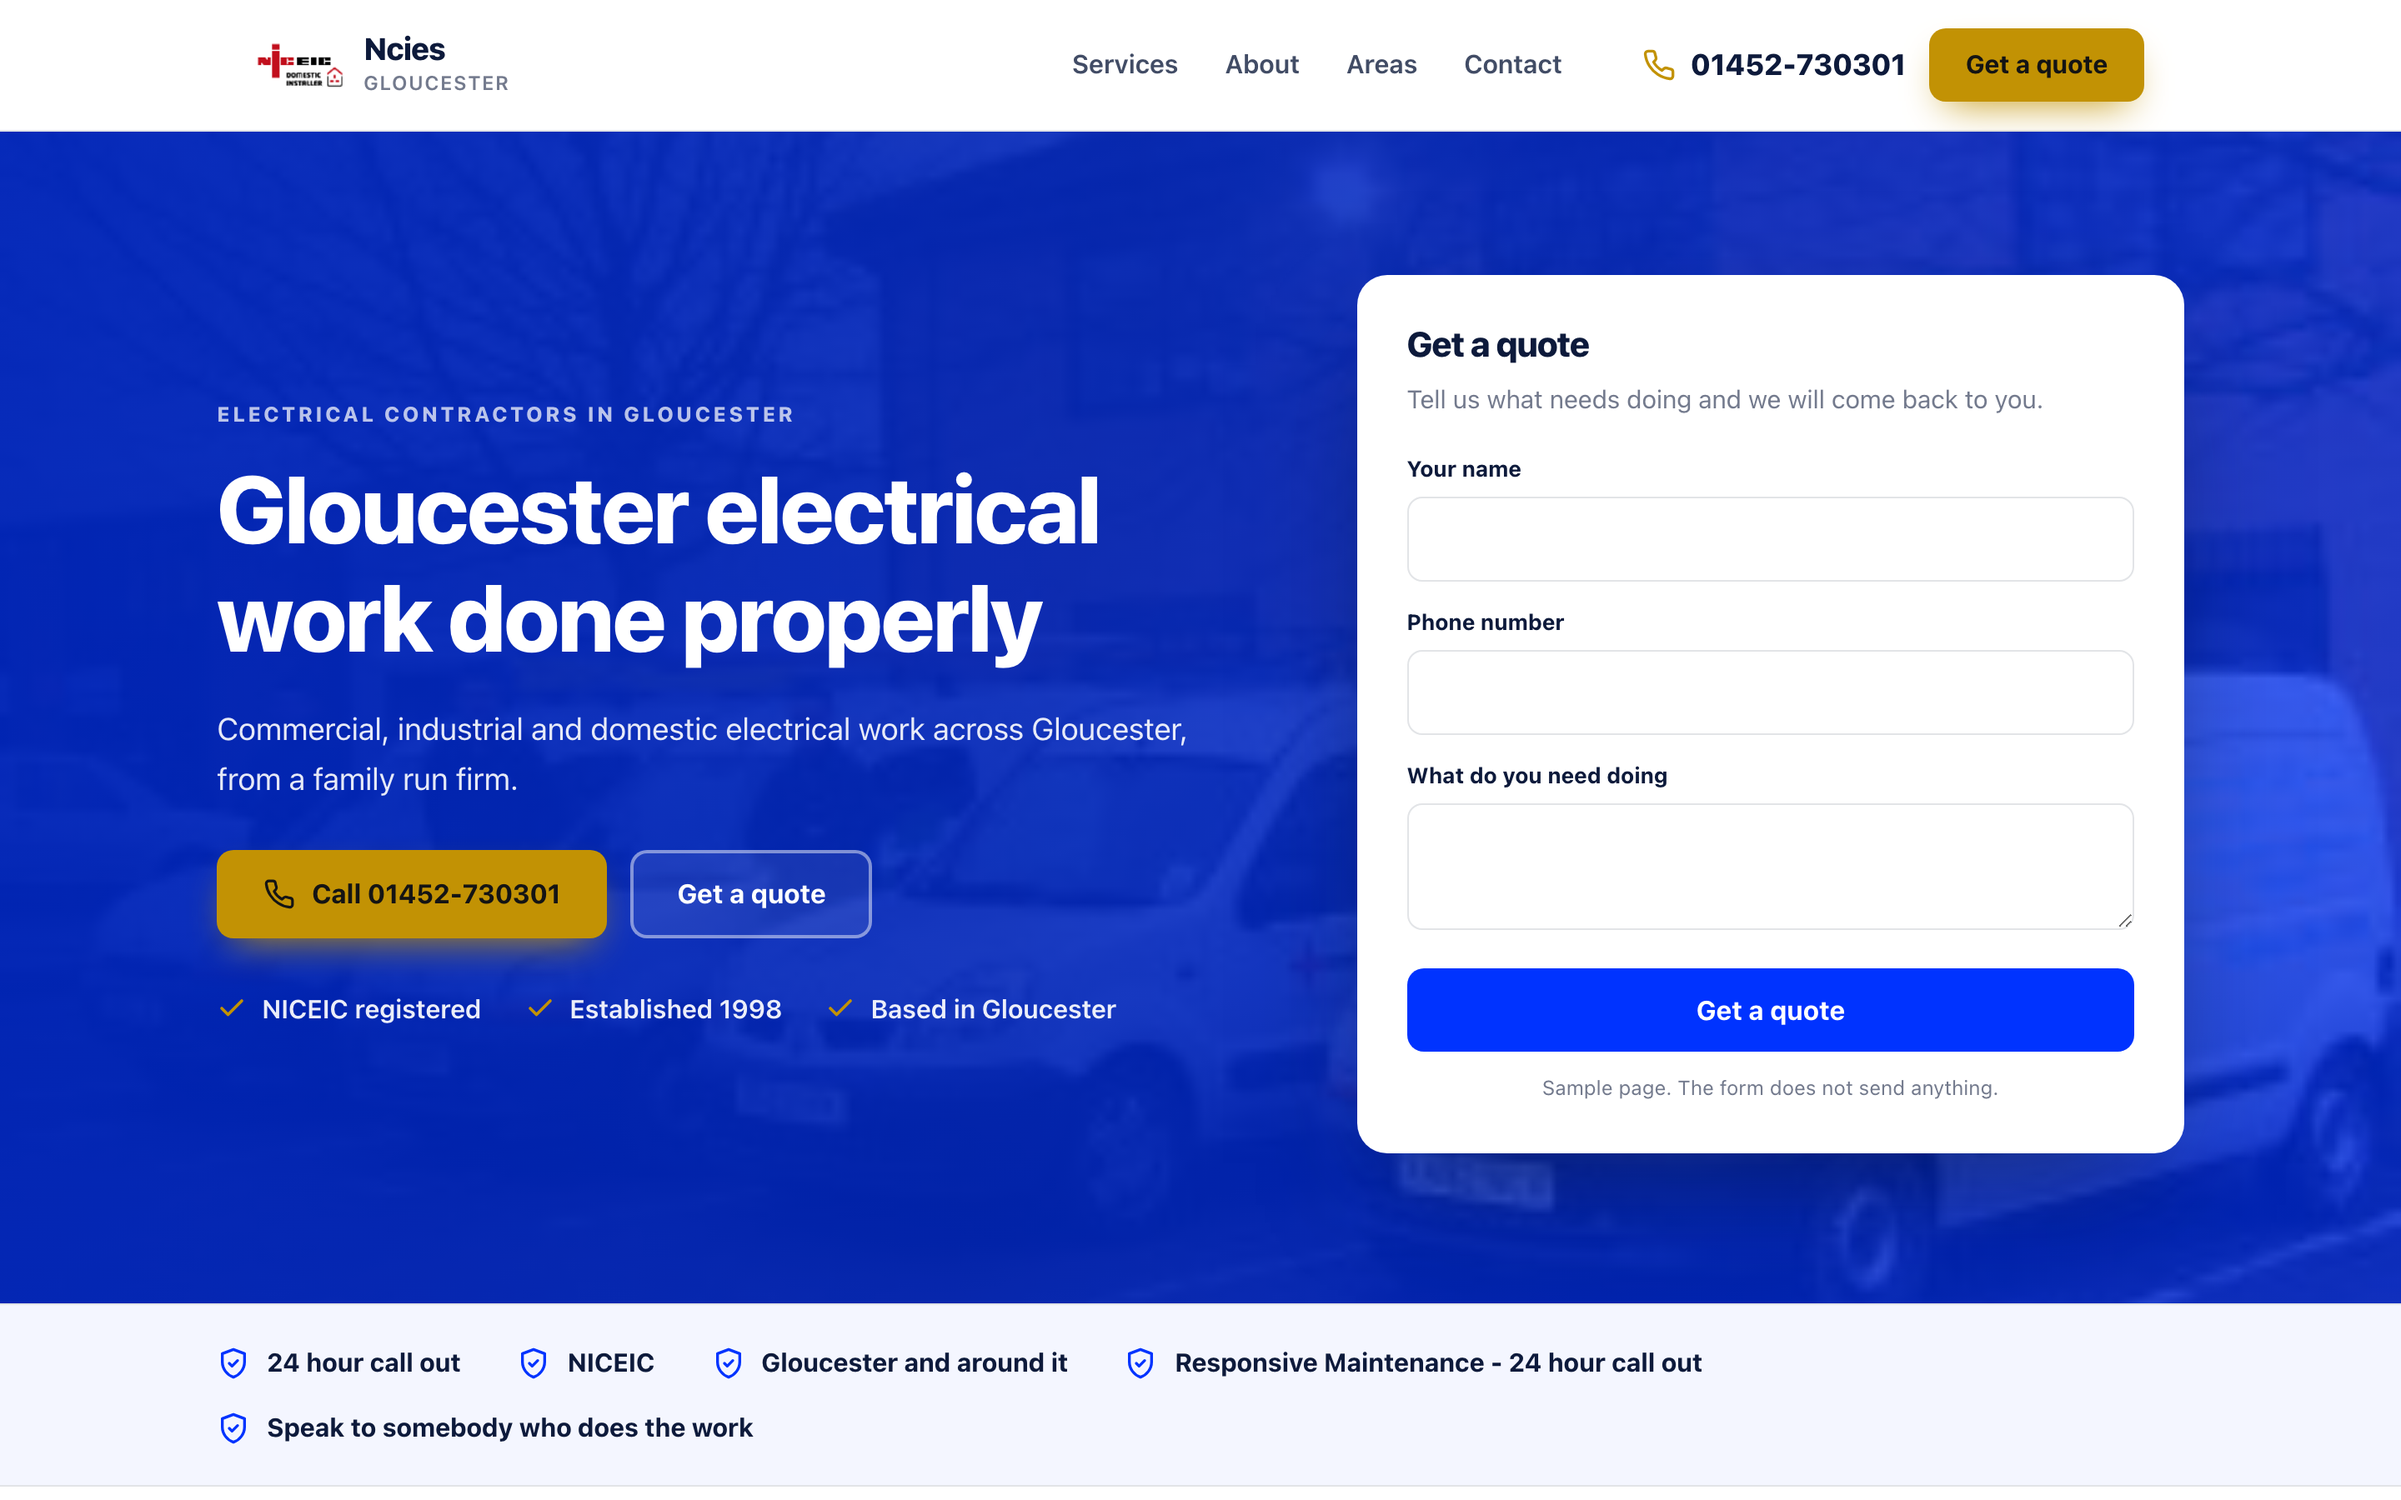
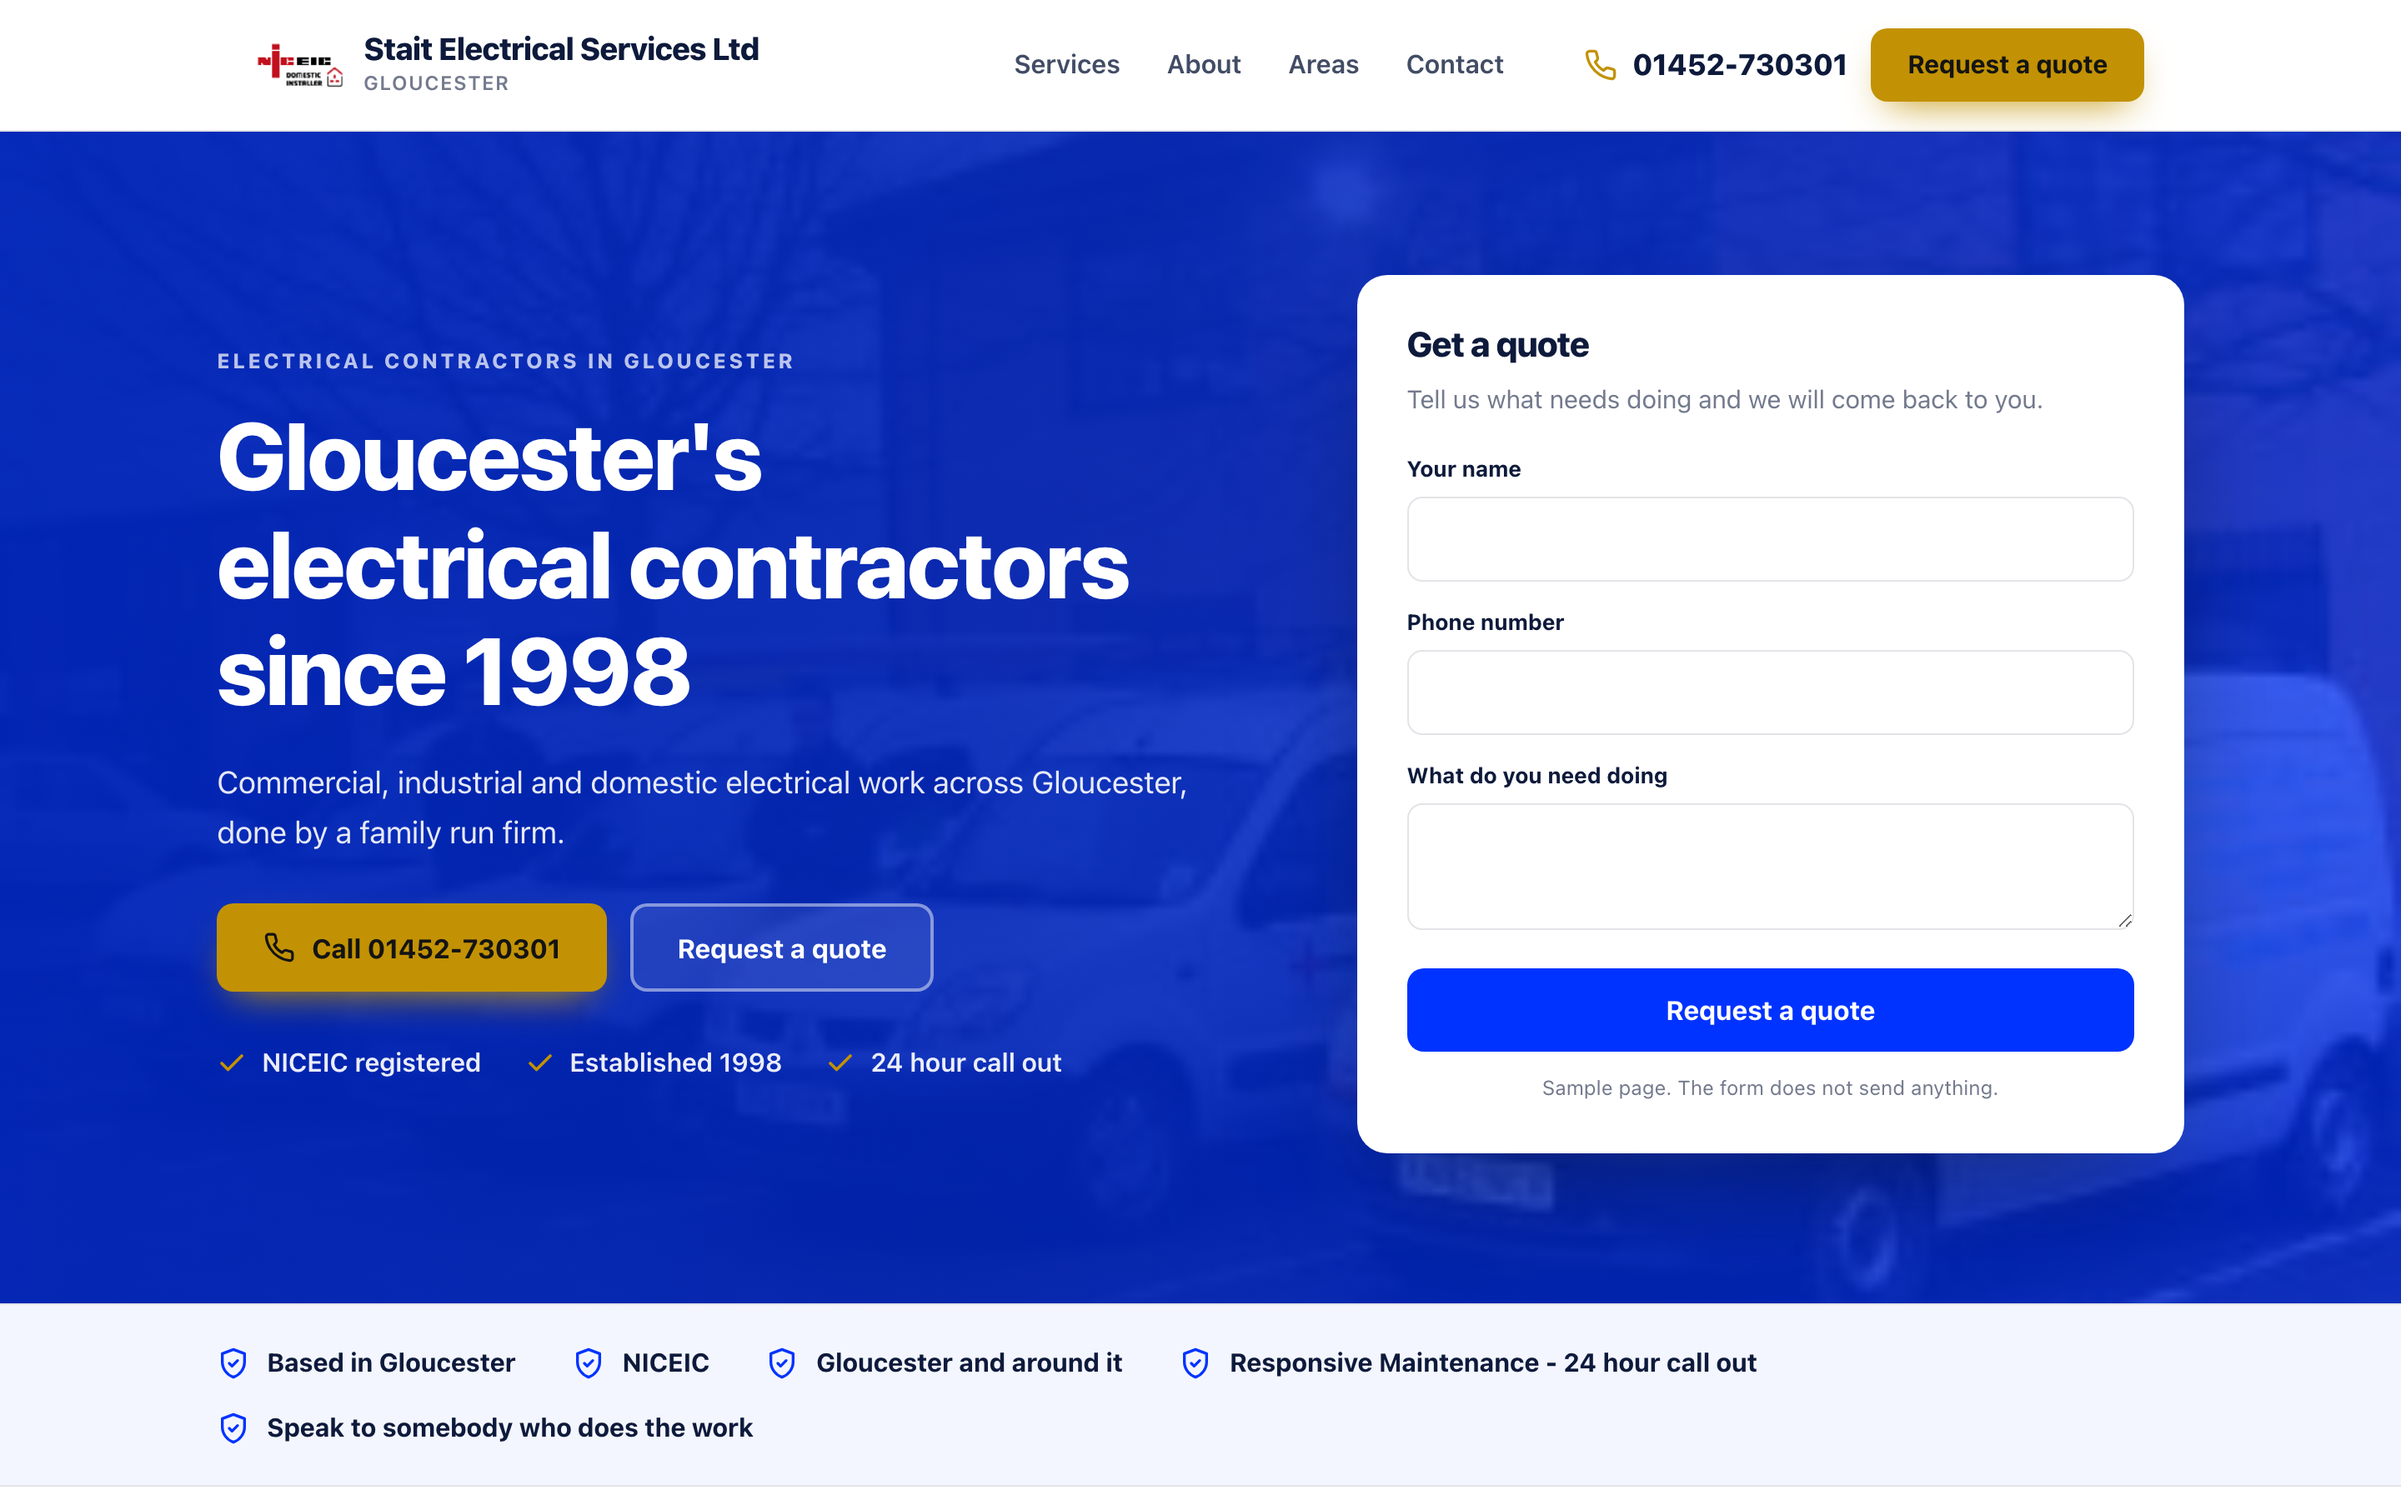
Sample homepage for Stait Electrical Services Ltd

diff --git a/docs/d37b88199e/index.html b/docs/d37b88199e/index.html
@@ -4,12 +4,12 @@
 <meta charset="utf-8">
 <meta name="viewport" content="width=device-width, initial-scale=1">
 <meta name="robots" content="noindex,nofollow">
-<title>Ncies sample homepage</title>
-<meta name="description" content="Commercial, industrial and domestic electrical work across Gloucester, from a family run firm.">
+<title>Stait Electrical Services Ltd sample homepage</title>
+<meta name="description" content="Commercial, industrial and domestic electrical work across Gloucester, done by a family run firm.">
 <link rel="canonical" href="https://markygff.github.io/aso-mockups/d37b88199e/">
 <meta property="og:type" content="website">
-<meta property="og:title" content="Ncies sample homepage">
-<meta property="og:description" content="Commercial, industrial and domestic electrical work across Gloucester, from a family run firm.">
+<meta property="og:title" content="Stait Electrical Services Ltd sample homepage">
+<meta property="og:description" content="Commercial, industrial and domestic electrical work across Gloucester, done by a family run firm.">
 <meta property="og:url" content="https://markygff.github.io/aso-mockups/d37b88199e/">
 <meta property="og:image" content="https://www.staitelectrical.co.uk/img/DSCF0302.jpg"><style>
 :root{
@@ -119,8 +119,8 @@ p{margin:0}
 <header class="header">
   <div class="wrap header-in">
     <div class="brand">
-<img src="https://www.staitelectrical.co.uk/img/domesticinstlogo.gif" alt="Ncies logo">      <div>
-        <div class="brand-name">Ncies</div>
+<img src="https://www.staitelectrical.co.uk/img/domesticinstlogo.gif" alt="Stait Electrical Services Ltd logo">      <div>
+        <div class="brand-name">Stait Electrical Services Ltd</div>
 <div class="brand-sub">Gloucester</div>      </div>
     </div>
     <nav class="nav">
@@ -128,7 +128,7 @@ p{margin:0}
     </nav>
     <div class="header-cta">
       <span class="tel"><svg viewBox="0 0 24 24" fill="none" stroke="currentColor" stroke-width="2" stroke-linecap="round" stroke-linejoin="round" aria-hidden="true"><path d="M22 16.9v3a2 2 0 0 1-2.2 2 19.8 19.8 0 0 1-8.6-3.1 19.5 19.5 0 0 1-6-6 19.8 19.8 0 0 1-3.1-8.7A2 2 0 0 1 4.1 2h3a2 2 0 0 1 2 1.7c.1 1 .4 1.9.7 2.8a2 2 0 0 1-.5 2.1L8.1 9.9a16 16 0 0 0 6 6l1.3-1.2a2 2 0 0 1 2.1-.5c.9.3 1.8.6 2.8.7a2 2 0 0 1 1.7 2z"/></svg><span>01452-730301</span></span>
-      <span class="btn btn-accent">Get a quote</span>
+      <span class="btn btn-accent">Request a quote</span>
     </div>
   </div>
 </header>
@@ -138,14 +138,14 @@ p{margin:0}
   <div class="wrap hero-in">
     <div>
       <p class="eyebrow">Electrical Contractors in Gloucester</p>
-      <h1>Gloucester electrical work done properly</h1>
-      <p class="hero-sub">Commercial, industrial and domestic electrical work across Gloucester, from a family run firm.</p>
+      <h1>Gloucester&#39;s electrical contractors since 1998</h1>
+      <p class="hero-sub">Commercial, industrial and domestic electrical work across Gloucester, done by a family run firm.</p>
       <div class="hero-actions">
         <span class="btn btn-accent"><svg viewBox="0 0 24 24" fill="none" stroke="currentColor" stroke-width="2" stroke-linecap="round" stroke-linejoin="round" aria-hidden="true"><path d="M22 16.9v3a2 2 0 0 1-2.2 2 19.8 19.8 0 0 1-8.6-3.1 19.5 19.5 0 0 1-6-6 19.8 19.8 0 0 1-3.1-8.7A2 2 0 0 1 4.1 2h3a2 2 0 0 1 2 1.7c.1 1 .4 1.9.7 2.8a2 2 0 0 1-.5 2.1L8.1 9.9a16 16 0 0 0 6 6l1.3-1.2a2 2 0 0 1 2.1-.5c.9.3 1.8.6 2.8.7a2 2 0 0 1 1.7 2z"/></svg>Call 01452-730301</span>
-        <span class="btn btn-ghost">Get a quote</span>
+        <span class="btn btn-ghost">Request a quote</span>
       </div>
       <ul class="hero-bullets">
-<li><svg viewBox="0 0 24 24" fill="none" stroke="currentColor" stroke-width="2.4" stroke-linecap="round" stroke-linejoin="round" aria-hidden="true"><path d="M20 6 9 17l-5-5"/></svg><span>NICEIC registered</span></li><li><svg viewBox="0 0 24 24" fill="none" stroke="currentColor" stroke-width="2.4" stroke-linecap="round" stroke-linejoin="round" aria-hidden="true"><path d="M20 6 9 17l-5-5"/></svg><span>Established 1998</span></li><li><svg viewBox="0 0 24 24" fill="none" stroke="currentColor" stroke-width="2.4" stroke-linecap="round" stroke-linejoin="round" aria-hidden="true"><path d="M20 6 9 17l-5-5"/></svg><span>Based in Gloucester</span></li>      </ul>
+<li><svg viewBox="0 0 24 24" fill="none" stroke="currentColor" stroke-width="2.4" stroke-linecap="round" stroke-linejoin="round" aria-hidden="true"><path d="M20 6 9 17l-5-5"/></svg><span>NICEIC registered</span></li><li><svg viewBox="0 0 24 24" fill="none" stroke="currentColor" stroke-width="2.4" stroke-linecap="round" stroke-linejoin="round" aria-hidden="true"><path d="M20 6 9 17l-5-5"/></svg><span>Established 1998</span></li><li><svg viewBox="0 0 24 24" fill="none" stroke="currentColor" stroke-width="2.4" stroke-linecap="round" stroke-linejoin="round" aria-hidden="true"><path d="M20 6 9 17l-5-5"/></svg><span>24 hour call out</span></li>      </ul>
     </div>
     <div class="quote-card">
       <h3>Get a quote</h3>
@@ -153,7 +153,7 @@ p{margin:0}
       <div class="field"><label>Your name</label><input type="text" disabled></div>
       <div class="field"><label>Phone number</label><input type="tel" disabled></div>
       <div class="field"><label>What do you need doing</label><textarea disabled></textarea></div>
-      <span class="btn btn-primary">Get a quote</span>
+      <span class="btn btn-primary">Request a quote</span>
       <p class="sample-note">Sample page. The form does not send anything.</p>
     </div>
   </div>
@@ -161,7 +161,7 @@ p{margin:0}
 
 <div class="strip">
   <div class="wrap strip-in">
-    <div class="strip-item"><svg viewBox="0 0 24 24" fill="none" stroke="currentColor" stroke-width="2" stroke-linecap="round" stroke-linejoin="round" aria-hidden="true"><path d="M12 2 4 5v6c0 5 3.4 9.4 8 11 4.6-1.6 8-6 8-11V5z"/><path d="m9 12 2 2 4-4"/></svg><span>24 hour call out</span></div>
+    <div class="strip-item"><svg viewBox="0 0 24 24" fill="none" stroke="currentColor" stroke-width="2" stroke-linecap="round" stroke-linejoin="round" aria-hidden="true"><path d="M12 2 4 5v6c0 5 3.4 9.4 8 11 4.6-1.6 8-6 8-11V5z"/><path d="m9 12 2 2 4-4"/></svg><span>Based in Gloucester</span></div>
     <div class="strip-item"><svg viewBox="0 0 24 24" fill="none" stroke="currentColor" stroke-width="2" stroke-linecap="round" stroke-linejoin="round" aria-hidden="true"><path d="M12 2 4 5v6c0 5 3.4 9.4 8 11 4.6-1.6 8-6 8-11V5z"/><path d="m9 12 2 2 4-4"/></svg><span>NICEIC</span></div>
     <div class="strip-item"><svg viewBox="0 0 24 24" fill="none" stroke="currentColor" stroke-width="2" stroke-linecap="round" stroke-linejoin="round" aria-hidden="true"><path d="M12 2 4 5v6c0 5 3.4 9.4 8 11 4.6-1.6 8-6 8-11V5z"/><path d="m9 12 2 2 4-4"/></svg><span>Gloucester and around it</span></div>
     <div class="strip-item"><svg viewBox="0 0 24 24" fill="none" stroke="currentColor" stroke-width="2" stroke-linecap="round" stroke-linejoin="round" aria-hidden="true"><path d="M12 2 4 5v6c0 5 3.4 9.4 8 11 4.6-1.6 8-6 8-11V5z"/><path d="m9 12 2 2 4-4"/></svg><span>Responsive Maintenance - 24 hour call out</span></div>
@@ -173,19 +173,19 @@ p{margin:0}
   <div class="wrap">
     <div class="services-head">
       <p class="eyebrow">What we do</p>
-      <h2>Ncies, Gloucester</h2>
-      <p>Commercial, industrial and domestic electrical work across Gloucester, from a family run firm.</p>
+      <h2>Stait Electrical Services Ltd, Gloucester</h2>
+      <p>Commercial, industrial and domestic electrical work across Gloucester, done by a family run firm.</p>
     </div>
     <div class="grid">
       <article class="card">
         <div class="icon"><svg viewBox="0 0 24 24" fill="none" stroke="currentColor" stroke-width="2" stroke-linecap="round" stroke-linejoin="round" aria-hidden="true"><path d="M14.7 6.3a4 4 0 0 0 5.3 5.3l-8 8a3 3 0 0 1-4.2-4.2z"/><path d="m14.7 6.3 3-3"/></svg></div>
         <h3>Commercial</h3>
-        <p>Electrical work for shops, offices and other commercial premises.</p>
+        <p>Electrical work for shops and offices across Gloucester.</p>
       </article>
       <article class="card">
         <div class="icon"><svg viewBox="0 0 24 24" fill="none" stroke="currentColor" stroke-width="2" stroke-linecap="round" stroke-linejoin="round" aria-hidden="true"><path d="M13 2 4 14h7l-1 8 9-12h-7z"/></svg></div>
         <h3>Industrial</h3>
-        <p>Electrical contracting for industrial sites across Gloucestershire.</p>
+        <p>Electrical contracting for industrial sites and heavy plant.</p>
       </article>
       <article class="card">
         <div class="icon"><svg viewBox="0 0 24 24" fill="none" stroke="currentColor" stroke-width="2" stroke-linecap="round" stroke-linejoin="round" aria-hidden="true"><path d="M3 10.5 12 3l9 7.5"/><path d="M5 9.5V21h14V9.5"/><path d="M10 21v-6h4v6"/></svg></div>
@@ -198,7 +198,7 @@ p{margin:0}
 
 <footer class="footer">
   <div class="wrap footer-in">
-    <span>Sample built for Ncies from your public website. Not live. Tell us and we delete it.</span>
+    <span>Sample built for Stait Electrical Services Ltd from your public website. Not live. Tell us and we delete it.</span>
     <span>staitelectrical.co.uk</span>
   </div>
 </footer>
